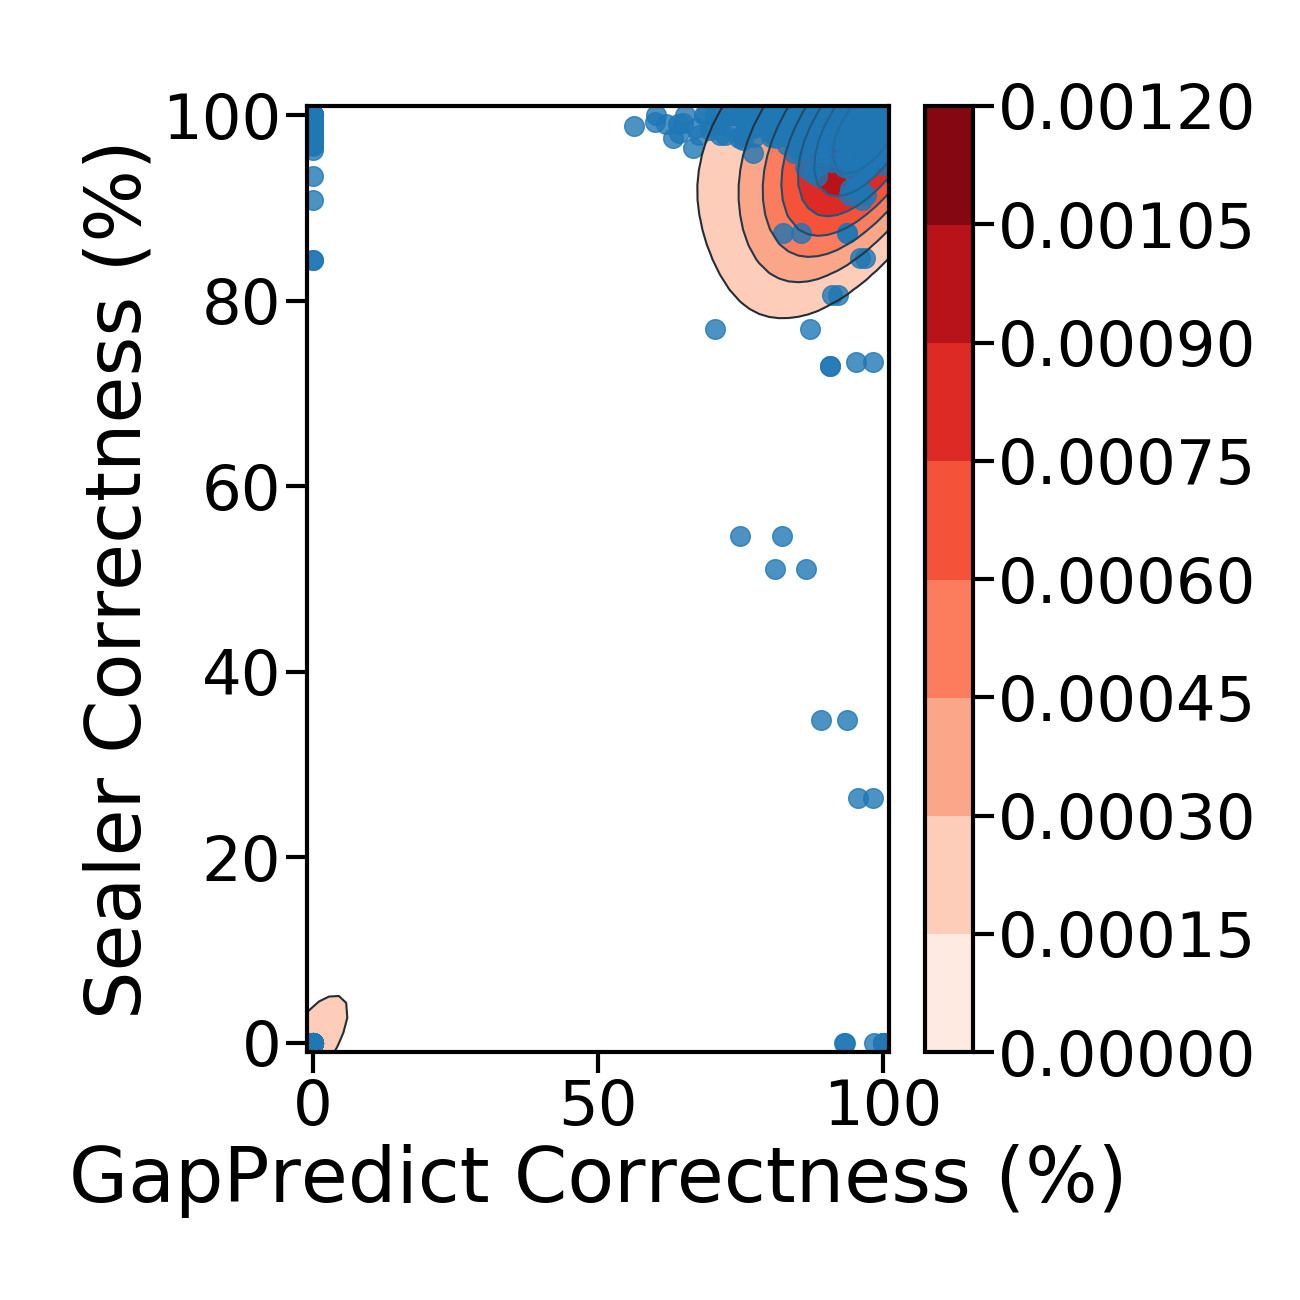
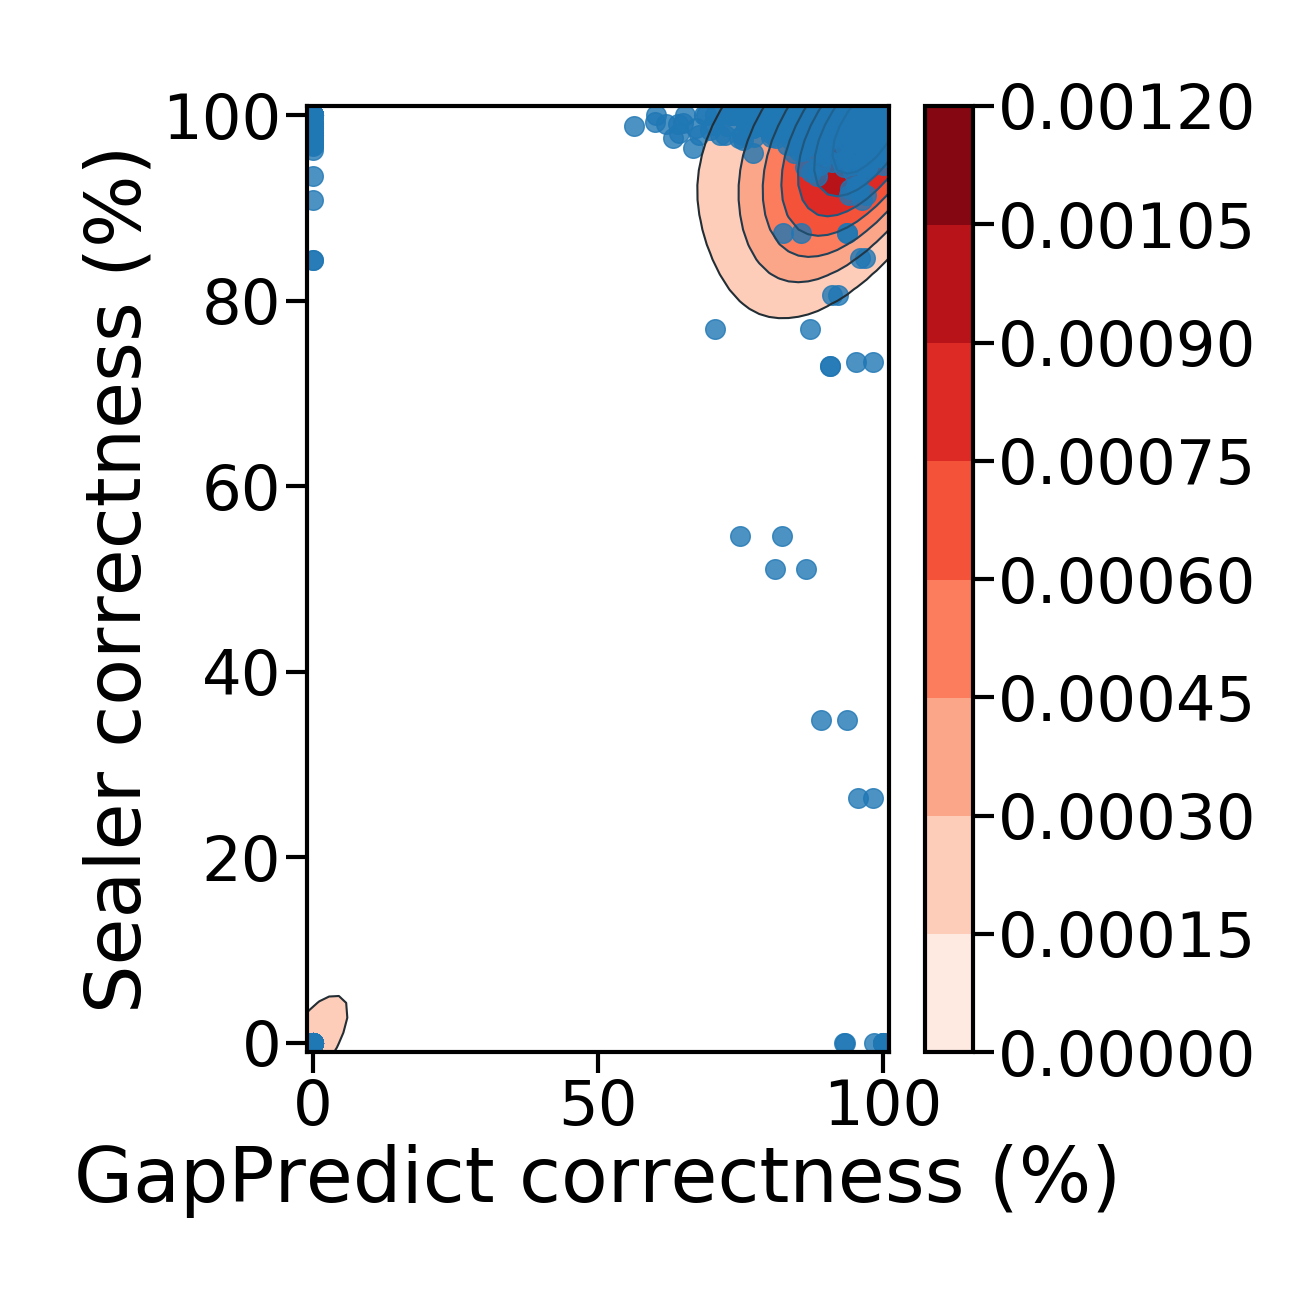
Update figures
No longer capitalize every word

Changed region(s): [[0.0615, 0.0923, 0.1231, 0.8], [0.4, 0.8615, 0.8615, 0.9538], [0.0308, 0.8615, 0.3692, 0.9538]]

diff --git a/lib/data/helper_scripts/data_crunching/wrangle_csv.py b/lib/data/helper_scripts/data_crunching/wrangle_csv.py
@@ -92,8 +92,8 @@ def plot_comparison_scatter(data, file_path):
 
     plt.xlim((-1, 101))
     plt.ylim((-1, 101))
-    plt.xlabel('GapPredict Correctness (%)')
-    plt.ylabel('Sealer Correctness (%)')
+    plt.xlabel('GapPredict correctness (%)')
+    plt.ylabel('Sealer correctness (%)')
 
     plt.tight_layout()
     fig = plt.savefig(file_path)
@@ -122,8 +122,8 @@ def plot_scatter(data, file_path):
 
     plt.xlim((-1, 101))
     plt.ylim((-1, 101))
-    plt.xlabel('Target Correctness (%)')
-    plt.ylabel('Query Coverage (%)')
+    plt.xlabel('Target correctness (%)')
+    plt.ylabel('Query coverage (%)')
 
     plt.tight_layout()
     fig = plt.savefig(file_path)

diff --git a/lib/data/helper_scripts/data_crunching/wrangle_sealer.py b/lib/data/helper_scripts/data_crunching/wrangle_sealer.py
@@ -48,8 +48,8 @@ def plot_box(data, file_path):
     ax = sns.boxplot(data=data, x="fixed_status", y="target_correctness", linewidth=linewidth, flierprops=flierprops)
     ax.set_xticklabels(ax.get_xticklabels(), rotation=rotation)
     plt.ylim((-5, 101))
-    plt.xlabel('Gap Reads Source')
-    plt.ylabel('Target Correctness (%)')
+    plt.xlabel('Gap reads source')
+    plt.ylabel('Target correctness (%)')
 
     plt.tight_layout()
     fig = plt.savefig(file_path)
